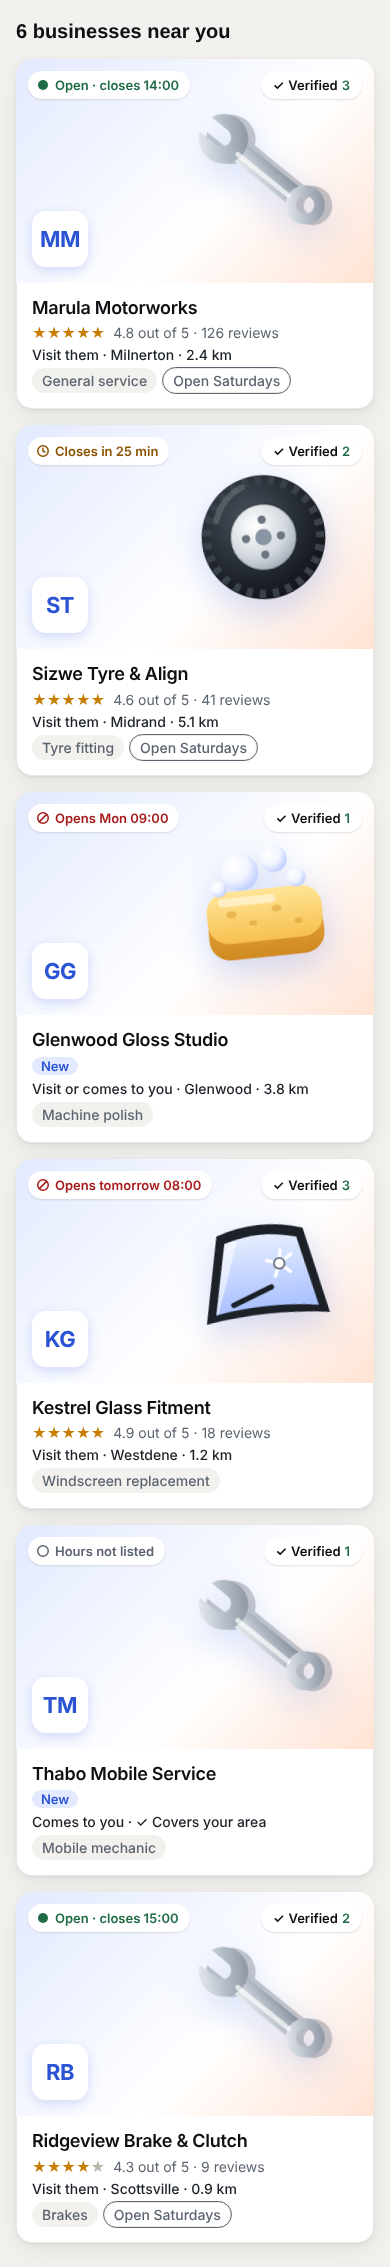
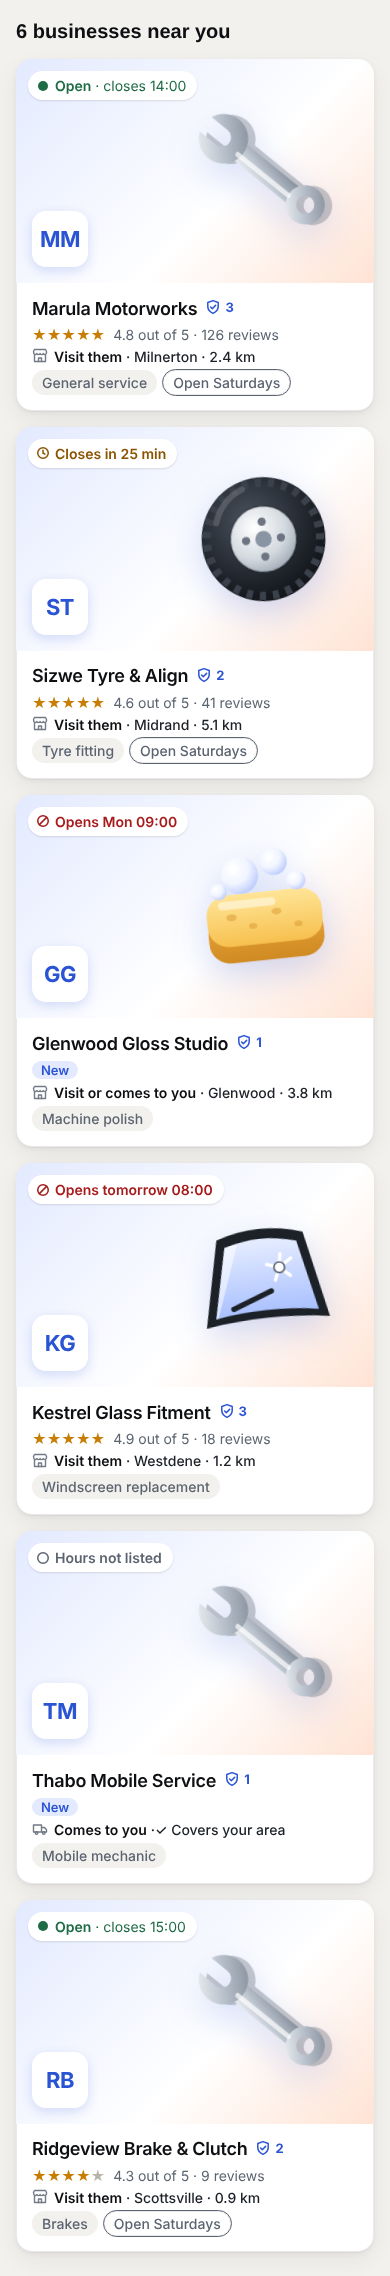
Listing card: Verified shield beside the name, photo top-right left for the heart
Agent: claude

Claude-Session: https://claude.ai/code/session_01Mv3uQThWd2du7WuokiA8WF

diff --git a/apps/web/app/sites/ListingCard.tsx b/apps/web/app/sites/ListingCard.tsx
@@ -41,6 +41,71 @@ function distanceText(listing: ListingSummary): string | null {
   return `${listing.distance_km.toFixed(1)} km`;
 }
 
+/** "Open · closes 14:00": the state in bold, the time in regular weight. */
+function StatusLabel({ text }: { text: string }) {
+  const [lead, rest] = text.split(" · ");
+  return (
+    <span className="label">
+      <b>{lead}</b>
+      {rest ? ` · ${rest}` : ""}
+    </span>
+  );
+}
+
+/** Small line icons for the "where" row: a shopfront to visit, a van that comes to you. */
+function WhereIcon({ mobile }: { mobile: boolean }) {
+  return (
+    <svg
+      className="where-ic"
+      viewBox="0 0 16 16"
+      width="16"
+      height="16"
+      aria-hidden="true"
+      focusable="false"
+      fill="none"
+      stroke="currentColor"
+      strokeWidth="1.4"
+      strokeLinecap="round"
+      strokeLinejoin="round"
+    >
+      {mobile ? (
+        <>
+          <path d="M1.5 4h8v7h-8zM9.5 6.5h3l2 2.2V11h-5z" />
+          <circle cx="4.5" cy="12" r="1.3" />
+          <circle cx="11.7" cy="12" r="1.3" />
+        </>
+      ) : (
+        <>
+          <path d="M2.5 6.5v7h11v-7M1.5 3.5l1-2h11l1 2v1.2a1.7 1.7 0 0 1-3.2.8 1.7 1.7 0 0 1-3.2 0 1.7 1.7 0 0 1-3.2 0 1.7 1.7 0 0 1-3.2-.8z" />
+          <path d="M6.5 13.5V10h3v3.5" />
+        </>
+      )}
+    </svg>
+  );
+}
+
+/** The shield with a tick, in the mockup's blue. */
+function ShieldIcon() {
+  return (
+    <svg
+      className="shield"
+      viewBox="0 0 16 16"
+      width="16"
+      height="16"
+      aria-hidden="true"
+      focusable="false"
+      fill="none"
+      stroke="currentColor"
+      strokeWidth="1.5"
+      strokeLinecap="round"
+      strokeLinejoin="round"
+    >
+      <path d="M8 1.6 2.8 3.5v4c0 3 2.1 5.4 5.2 6.9 3.1-1.5 5.2-3.9 5.2-6.9v-4L8 1.6Z" />
+      <path d="m5.6 8 1.7 1.7L10.6 6.4" />
+    </svg>
+  );
+}
+
 /** A full 12 px marker per state: filled dot, clock, slashed circle, hollow ring. */
 function StatusMarker({
   kind,
@@ -94,7 +159,7 @@ function StatusPill({
   return (
     <span className={`cx-openstate ${status.kind}`}>
       <StatusMarker kind={status.kind} />
-      <span className="label">{statusLabel(status, day)}</span>
+      <StatusLabel text={statusLabel(status, day)} />
     </span>
   );
 }
@@ -139,11 +204,7 @@ export function ListingCard({
 
   return (
     <article className="cx-lcard">
-      <a
-        className="cx-lcard-link"
-        href={`/p/${listing.public_id}`}
-        aria-label={listing.display_name}
-      >
+      <div className="cx-lcard-main">
         <span className={coverClass}>
           {listing.cover_key ? (
             <img
@@ -168,16 +229,45 @@ export function ListingCard({
           </span>
         </span>
         <span className="body">
-          <h3>{listing.display_name}</h3>
+          <span className="nm">
+            <h3>
+              <a className="cx-lcard-link" href={`/p/${listing.public_id}`}>
+                {listing.display_name}
+              </a>
+            </h3>
+            {checks.length > 0 ? (
+              <details className="cx-verified">
+                <summary>
+                  <ShieldIcon />
+                  <span className="count" aria-hidden="true">
+                    {checks.length}
+                  </span>
+                  <span className="sr-only">
+                    Verified: {checks.length}{" "}
+                    {checks.length === 1 ? "check" : "checks"}
+                  </span>
+                </summary>
+                <div className="pop">
+                  <b>What CarworX checked</b>
+                  <ul>
+                    {checks.map((label) => (
+                      <li key={label}>{label}</li>
+                    ))}
+                  </ul>
+                </div>
+              </details>
+            ) : null}
+          </span>
           {rating === "New" ? (
             <span className="new">New</span>
           ) : rating ? (
             <RatingLine listing={listing} className="meta" />
           ) : null}
           <span className="where">
+            <WhereIcon mobile={listing.mode === "mobile"} />
             {listing.mode === "mobile" ? (
               <>
-                Comes to you
+                <b>Comes to you</b>
                 {matched ? (
                   <>
                     {" · "}
@@ -187,9 +277,11 @@ export function ListingCard({
               </>
             ) : (
               <>
-                {listing.mode === "both"
-                  ? "Visit or comes to you"
-                  : "Visit them"}
+                <b>
+                  {listing.mode === "both"
+                    ? "Visit or comes to you"
+                    : "Visit them"}
+                </b>
                 {" · "}
                 {listing.metro}
                 {distance ? (
@@ -207,21 +299,7 @@ export function ListingCard({
             {extra ? <span className="chip outline">{extra}</span> : null}
           </span>
         </span>
-      </a>
-      {checks.length > 0 ? (
-        <details className="cx-verified">
-          <summary>
-            <span aria-hidden="true">✓</span> Verified{" "}
-            <span className="count">{checks.length}</span>
-            <span className="sr-only"> checks</span>
-          </summary>
-          <ul>
-            {checks.map((label) => (
-              <li key={label}>{label}</li>
-            ))}
-          </ul>
-        </details>
-      ) : null}
+      </div>
       {SAVED_LISTINGS_ENABLED ? (
         <button
           type="button"

diff --git a/apps/web/app/sites/listing-card.css b/apps/web/app/sites/listing-card.css
@@ -5,6 +5,7 @@
  */
 .cx-lcard {
   position: relative;
+  overflow: visible;
   padding: 0;
   display: flex;
   flex-direction: column;
@@ -15,12 +16,13 @@
     var(--sh-1);
   color: var(--ink);
 }
-.cx-lcard-link {
+.cx-lcard-main {
   display: flex;
   flex-direction: column;
+}
+.cx-lcard-link {
   color: inherit;
   text-decoration: none;
-  border-radius: 16px;
 }
 .cx-lcard-link::after {
   content: "";
@@ -116,7 +118,7 @@
   position: absolute;
   top: 12px;
   left: 12px;
-  max-width: calc(100% - 132px);
+  max-width: calc(100% - 72px);
 }
 .cx-openstate {
   display: inline-flex;
@@ -128,7 +130,7 @@
   border-radius: var(--radius-pill);
   background: var(--surface);
   box-shadow: 0 1px 2px rgba(13, 15, 18, 0.12);
-  font: 600 13px var(--font-sans);
+  font: 400 14px var(--font-sans);
   white-space: nowrap;
   overflow: hidden;
   text-overflow: ellipsis;
@@ -138,6 +140,9 @@
   display: block;
   width: 12px;
   height: 12px;
+}
+.cx-openstate .label b {
+  font-weight: 600;
 }
 .cx-openstate .label {
   min-width: 0;
@@ -157,52 +162,77 @@
   color: #5b6470;
 }
 
-/* Verified: a disclosure, top-right, above the link. */
+/* Name row: the name (truncates with an ellipsis) and the Verified shield (never truncated). */
+.cx-lcard .nm {
+  display: flex;
+  align-items: center;
+  gap: 8px;
+  min-width: 0;
+}
+.cx-lcard .nm h3 {
+  min-width: 0;
+  overflow: hidden;
+  text-overflow: ellipsis;
+  white-space: nowrap;
+}
+/* Verified: a disclosure beside the name, above the stretched link. */
 .cx-verified {
-  position: absolute;
-  top: 12px;
-  right: 12px;
+  position: relative;
   z-index: 2;
+  flex: none;
 }
 .cx-verified summary {
   display: inline-flex;
   align-items: center;
   gap: 4px;
-  padding: 6px 12px;
-  border-radius: var(--radius-pill);
-  background: var(--surface);
-  box-shadow: 0 1px 2px rgba(13, 15, 18, 0.12);
-  font: 600 13px var(--font-sans);
-  color: var(--ink);
+  color: #2a54d4;
+  font: 700 13px var(--font-sans);
   cursor: pointer;
   list-style: none;
+  border-radius: var(--radius-pill);
 }
 .cx-verified summary::-webkit-details-marker {
   display: none;
 }
-.cx-verified .count {
-  color: var(--ok);
+.cx-verified summary:focus-visible {
+  outline: 3px solid #3d6dff;
+  outline-offset: 2px;
 }
-.cx-verified ul {
+.cx-verified .shield {
+  display: block;
+  width: 16px;
+  height: 16px;
+}
+.cx-verified .pop {
   display: none;
   position: absolute;
-  top: calc(100% + 6px);
-  right: 0;
-  min-width: 220px;
-  margin: 0;
+  z-index: 5;
+  top: calc(100% + 8px);
+  left: -8px;
+  width: 240px;
+  max-width: calc(100vw - 48px);
   padding: 12px 14px;
-  list-style: none;
-  border-radius: 14px;
-  background: var(--surface);
-  box-shadow: var(--sh-2, 0 8px 24px rgba(13, 15, 18, 0.16));
+  border-radius: 12px;
+  background: #0d0f12;
+  color: #fff;
   font: 400 13px var(--font-sans);
+  box-shadow: 0 12px 32px rgba(13, 15, 18, 0.3);
 }
-.cx-verified ul li {
-  padding: 3px 0;
+.cx-verified .pop b {
+  display: block;
+  margin-bottom: 6px;
+  font-weight: 600;
 }
-.cx-verified[open] ul,
-.cx-verified:hover ul,
-.cx-verified:focus-within ul {
+.cx-verified .pop ul {
+  display: grid;
+  gap: 6px;
+  margin: 0;
+  padding: 0;
+  list-style: none;
+}
+.cx-verified[open] .pop,
+.cx-verified:hover .pop,
+.cx-verified:focus-within .pop {
   display: block;
 }
 
@@ -222,6 +252,10 @@
   color: var(--muted);
 }
 .cx-lcard .where {
+  display: flex;
+  align-items: center;
+  flex-wrap: wrap;
+  gap: 0;
   font: 500 14px var(--font-sans);
   color: var(--graphite);
 }
@@ -242,14 +276,14 @@
   box-shadow: inset 0 0 0 1px var(--hair-strong, var(--hair));
 }
 
-/* Save heart: above the link, top-right, only when the flag is on. */
+/* Save heart: the photo's top-right, above the link; only when the flag is on. */
 .cx-save {
   position: absolute;
-  top: 10px;
-  right: 10px;
+  top: 12px;
+  right: 12px;
   z-index: 2;
-  width: 40px;
-  height: 40px;
+  width: 36px;
+  height: 36px;
   border: 0;
   border-radius: 50%;
   background: var(--surface);
@@ -282,4 +316,14 @@
   background: #e3eaff;
   font: 600 13px var(--font-sans);
   color: #2a54d4;
+}
+.cx-lcard .where b {
+  margin-right: 0.28em;
+  font-weight: 600;
+  color: var(--ink);
+}
+.cx-lcard .where-ic {
+  flex: none;
+  margin-right: 6px;
+  color: #727a85;
 }
